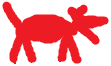
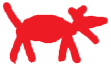
add transparent catA and doge, use spritesheet for catA

Changed region(s): [[0.0, 0.0, 1.0, 0.9697]]

diff --git a/src/App.js b/src/App.js
@@ -53,9 +53,9 @@ function Cat(props) {
 		width:props.cat.width,
 		height:props.cat.height,
 		right: props.cat.x, bottom: baseBottom,
-		backgroundImage:`url('cat${props.cat.type}${props.cat.x%2 && 
-			!props.cat.isAttacking ? '2':''}${props.cat.isAttacking?'Attack':''}.png')`,
-		backgroundSize: "contain",
+		backgroundImage:`url('cat${props.cat.type}${props.cat.isAttacking?'Attack':''}.png')`,
+		backgroundSize: "75px 25px",
+		backgroundPositionX: (-25)*(props.cat.x%3),
 		backgroundRepeat: "no-repeat"
 	}
 	return <div className="cat" style={style}> <HealthBar health={props.cat.health} maxHealth={props.cat.initialHealth}/> </div>
@@ -107,7 +107,7 @@ function App() {
 	const initialX = 25;
 	const initialHealth = 50;
 	const initialBaseHealth = 500;
-	const unit = {width:25, height:25, speed:3, initialHealth:initialHealth, knockBacks:5, 
+	const unit = {width:25, height:25, speed:1, initialHealth:initialHealth, knockBacks:5, 
 		attackRange:2, attackPower:1, attackType:attackTypes.areaAttack};
 	const enemyTypes =  [
 		{...unit, type:"Doge", attackType:attackTypes.singleAttack}, 
